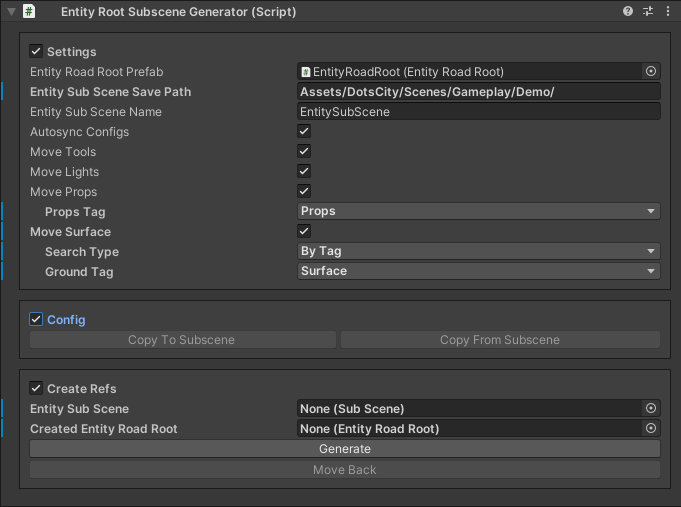
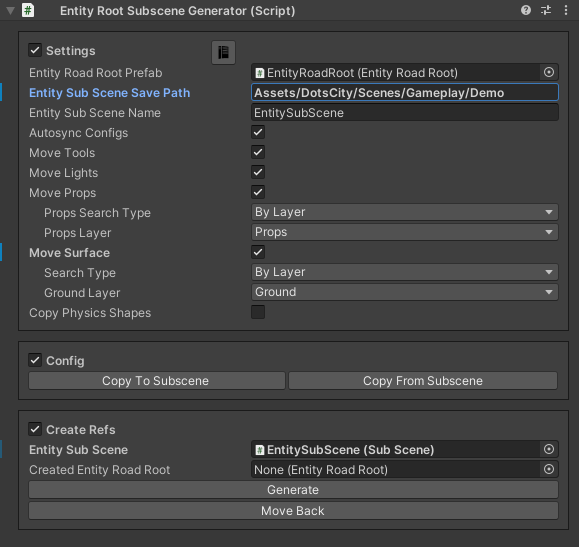
up

diff --git a/docs/source/structure.rst b/docs/source/structure.rst
@@ -117,17 +117,18 @@ Automatically used by :ref:`Entity Subscene Generator <subsceneGenerator>`.
 PhysicsShape Transfer Service
 ~~~~~~~~~~~~
 
-Tool for cloning physical shapes from the :ref:`main scene <mainScene>` to the :ref:`subscene <subscene>`.
+| Tool for cloning physical shapes from the :ref:`main scene <mainScene>` to the :ref:`subscene <subscene>`. 
+| Also tool exists to maintain both the `legacy physical world <https://docs.unity3d.com/2022.2/Documentation/Manual/PhysicsOverview.html>`_ and the `DOTS physical world <https://docs.unity3d.com/2022.2/Documentation/Manual/PhysicsOverview.html>`_ at the same time, 
+so `legacy colliders <https://docs.unity3d.com/ScriptReference/Collider.html>`_ and `DOTS colliders <https://docs.unity3d.com/Packages/com.unity.physics@1.0/manual/custom-shapes.html>`_ exist at the same time if you need to use `legacy colliders <https://docs.unity3d.com/ScriptReference/Collider.html>`_ in `MonoBehaviour <https://docs.unity3d.com/ScriptReference/MonoBehaviour.html>`_  classes.
 
-	.. image:: /images/road/installation/PhysicsShapeTransferService.png
-	
-How To Use
-""""""""""""""
-
-Used by :ref:`Entity Subscene Generator <subsceneGenerator>` or :ref:`SubSceneChunk Creator <subSceneCreator>`.
+Current project use cases:
+	* Keep `legacy colliders <https://docs.unity3d.com/ScriptReference/Collider.html>`_ to work with :ref:`Legacy ragdoll <pedestrianRagdoll>`.
+	* Cloning of physical shapes to split them into pieces subscene by using :ref:`SubSceneChunk Creator <subSceneCreator>` or cloning to :ref:`main subscene <subscene>` by using :ref:`Entity Subscene Generator <subsceneGenerator>`.
 
 	.. note:: The tool can use only one tool at a time, either a :ref:`Entity Subscene Generator <subsceneGenerator>` or a :ref:`SubSceneChunk Creator <subSceneCreator>`.
 
+	.. image:: /images/road/installation/PhysicsShapeTransferService.png
+	
 Settings
 """"""""""""""
 

diff --git a/docs/source/pedestrianNode.rst b/docs/source/pedestrianNode.rst
@@ -263,7 +263,7 @@ Settings
 | **Max path width** : global width of routes for all nodes (enable preview :ref:`here <creatorShowBorders>`, save global width :ref:`here <creatorSaveGlobalWidth>`).
 | **Connect with previous node** : currently created node will be connected to the previously created node.
 | **Auto select connected node** : node will be selected after it is connected to the source node.
-| **Allow connect traffic node** : on/of feature to connect to the :ref:`TrafficNode <trafficNode>`.
+| **Allow connect traffic node** : on/off feature to connect to the :ref:`TrafficNode <trafficNode>`.
 **Auto split connection** : if a node is located between a connection of existing nodes, the connection will be reconnected between them (made with a `Raycast`).
 	* **Disabled**
 	* **Right angle** : 90° angle.

diff --git a/docs/source/trafficCar.rst b/docs/source/trafficCar.rst
@@ -307,10 +307,10 @@ Currently enabled in the following situations:
 	* Cyclical obstacle of cars getting stuck in each other (:ref:`avoidance config <trafficAvoidanceConfig>`).
 	* A car collided frontally with another car (:ref:`collision config <trafficCollisionConfig>`).
 	
-	.. image:: /images/entities/trafficCar/avoidance/AnimationDataExample.png
+	.. image:: /images/entities/trafficCar/avoidance/AnimationDataExample1.png
 	`Cyclical obstacle example.`
 	
-	.. image:: /images/entities/trafficCar/avoidance/AnimationDataExample.png
+	.. image:: /images/entities/trafficCar/avoidance/AnimationDataExample2.png
 	`Avoiding cyclical obstacle example.`
 	
 	.. note:: Test scene :ref:`example <trafficTestSceneAvoidance>`.

diff --git a/docs/source/trafficTestScene.rst b/docs/source/trafficTestScene.rst
@@ -174,13 +174,15 @@ Check Traffic Reverse
 Check Avoidance
 ~~~~~~~~~~~~
 
+Test case of traffic :ref:`avoidance config <trafficAvoidance>`.
+
 	.. image:: /images/entities/trafficCar/avoidance/AvoidanceExampleSource.png
-	`Sourc settings.`
+	`Source settings.`
 		
-	.. image:: /images/entities/trafficCar/avoidance/AnimationDataExample.png
+	.. image:: /images/entities/trafficCar/avoidance/AnimationDataExample1.png
 	`Cyclical obstacle example.`
 	
-	.. image:: /images/entities/trafficCar/avoidance/AnimationDataExample.png
+	.. image:: /images/entities/trafficCar/avoidance/AnimationDataExample2.png
 	`Avoiding cyclical obstacle example.`
 	
 .. _testSceneTrafficCarRoadDebugger:

diff --git a/docs/source/roadInstallation.rst b/docs/source/roadInstallation.rst
@@ -40,6 +40,7 @@ Steps:
 	#. Select `Entity sub scene path` the path to create a :ref:`subscene <subscene>`.
 	#. Enter `Entity subscene name` or use default name.
 	#. On/off autosync configs (before migrating the configs to the :ref:`subscene <subscene>`, they will be synchronized with the configs that are in the :ref:`Hub <hub>`).
+	#. On/off copy physics shapes feature (read more :ref:`physics shape transfer <physicsShapeTransfer>`) **[optional]**.
 	#. Press `Generate` button.
 	#. All created :ref:`RoadSegments <roadSegment>` and :ref:`PedestrianNodes <pedestrianNode>` will automatically be moved to the :ref:`subscene <subscene>`.
 

diff --git a/docs/source/pedestrianInit.rst b/docs/source/pedestrianInit.rst
@@ -295,6 +295,7 @@ How To Create
 		* Implemented by `PedestrianRagdollSystem`.
 		* Currently collides only with default `colliders <https://docs.unity3d.com/ScriptReference/Collider.html>`_
 		* Make sure, that the scene contains `default colliders <https://docs.unity3d.com/ScriptReference/Collider.html>`_.
+		* Read more info about :ref:`physics transfer service <physicsShapeTransfer>` how to clone legacy colliders.
 
 .. _pedestrianNavigation:
 
